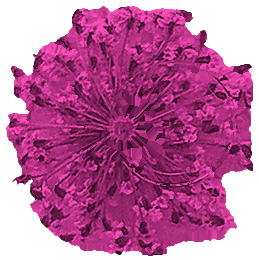
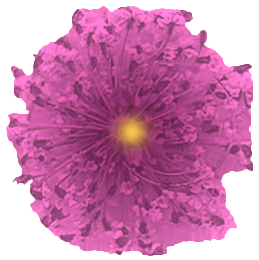
Add = place on the piece and drag (no where/shuffle chips), single drawn shells, better flowers, ten inspiration looks with matching combos, tighter ink drops
Claude-Session: https://claude.ai/code/session_01DjQemfhErfNEU4ZzJdMN5C

diff --git a/app.js b/app.js
@@ -669,8 +669,8 @@ function styleLayer(d, id, R, T, B) {
       // one drop: strongest in the middle, thinning out towards the edge
       let defs = "";
       d.inkDrops.forEach(([ci, x, y, rs], i) => {
-        const col = c[ci] || c[0], r = rs * (wide ? 3.4 : 2.1);
-        defs += `<radialGradient id="${id}-d${i}"><stop offset="0" stop-color="${col}" stop-opacity="0.96"/><stop offset="0.28" stop-color="${col}" stop-opacity="${wide ? 0.78 : 0.9}"/><stop offset="0.65" stop-color="${col}" stop-opacity="${wide ? 0.34 : 0.22}"/><stop offset="1" stop-color="${col}" stop-opacity="0"/></radialGradient>`;
+        const col = c[ci] || c[0], r = rs * (wide ? 2.5 : 1.6);
+        defs += `<radialGradient id="${id}-d${i}"><stop offset="0" stop-color="${col}" stop-opacity="0.96"/><stop offset="0.22" stop-color="${col}" stop-opacity="0.95"/><stop offset="0.4" stop-color="${col}" stop-opacity="${wide ? 0.7 : 0.85}"/><stop offset="0.65" stop-color="${col}" stop-opacity="${wide ? 0.34 : 0.22}"/><stop offset="1" stop-color="${col}" stop-opacity="0"/></radialGradient>`;
         over += `<ellipse cx="${x}" cy="${y}" rx="${r.toFixed(0)}" ry="${(r * (0.85 + (i % 3) * 0.08)).toFixed(0)}" fill="url(#${id}-d${i})" transform="rotate(${(i * 47) % 180} ${x} ${y})"/>`;
       });
       s += `<defs>${defs}</defs><g filter="url(#${id}-ink)">${over}</g>`;
@@ -1141,10 +1141,15 @@ function sprinkle(d, gid, n, seed) {
   }
 }
 const LOOKS = [
-  { id: "ocean", name: "Ocean shore", apply(d) { d.style = "ocean"; d.ocean = Object.assign({}, d.ocean, { sand: "middle", size: "medium", dir: "flat" }); d.addins = { "sea-starfish": { amount: "few", place: "anna", color: "#D4AF37" }, "sea-shell-mix2": { amount: "few", place: "anna", color: "#D4AF37" } }; d.crush = []; } },
+  { id: "ocean", name: "Ocean shore", apply(d) { d.style = "ocean"; d.ocean = Object.assign({}, d.ocean, { sand: "middle", size: "medium", dir: "flat" }); d.addins = { "sea-starfish": { amount: "few", place: "anna", color: "#D4AF37" }, "sea-shell-scallop": { amount: "few", place: "anna", color: "#D4AF37" } }; d.crush = []; } },
   { id: "rosegold", name: "Rose gold glitter", apply(d) { d.style = "gradient"; d.picked = ["#B8693F", "#C9A99A", "#D9959C"]; d.gradient = { direction: "diagonal", glitter: "none" }; d.addins = {}; d.crush = []; sprinkle(d, "rosecopper", 130, "rg"); sprinkle(d, "champagne", 90, "rg2"); } },
   { id: "blossom", name: "Pink blossom", apply(d) { d.style = "clear"; d.deco = "natural"; d.addins = { "flower-pink": { amount: "few", place: "anna", color: "#D4AF37" }, "flower-cream": { amount: "few", place: "anna", color: "#D4AF37" }, "dried-pink": { amount: "few", place: "anna", color: "#D4AF37" } }; d.crush = []; sprinkle(d, "palerose", 70, "bl"); } },
   { id: "midnight", name: "Midnight ink", apply(d) { d.style = "ink"; d.picked = ["#4A5090", "#6A4B94", "#14151A"]; d.ink = Object.assign({}, d.ink, { flow: "spread", legacy: false, shimmer: "gold" }); const [T, B] = bounds(d.shape), h = B - T; d.inkDrops = [[0, 130, Math.round(T + h * 0.3), 20], [1, 170, Math.round(T + h * 0.55), 22], [2, 140, Math.round(T + h * 0.78), 18]]; d.addins = {}; d.crush = []; sprinkle(d, "gold", 60, "mi"); } },
+  { id: "lavender", name: "Lavender dream", apply(d) { d.style = "clear"; d.deco = "natural"; d.addins = { "flower-purple": { amount: "few", place: "anna", color: "#D4AF37" }, "flower-mauve": { amount: "few", place: "anna", color: "#D4AF37" }, "dried-lavender": { amount: "few", place: "anna", color: "#D4AF37" } }; d.crush = []; sprinkle(d, "purple", 60, "lv"); sprinkle(d, "palerose", 40, "lv2"); } },
+  { id: "inkrose", name: "Rose ink", apply(d) { d.style = "ink"; d.deco = "natural"; d.picked = ["#D9959C", "#C97080", "#E6E0D8"]; d.ink = Object.assign({}, d.ink, { flow: "spread", legacy: false, shimmer: "pearl" }); const [T, B] = bounds(d.shape), h = B - T; d.inkDrops = [[0, 140, Math.round(T + h * 0.35), 20], [1, 165, Math.round(T + h * 0.62), 18], [2, 135, Math.round(T + h * 0.8), 16]]; d.addins = { "flower-pink": { amount: "few", place: "anna", color: "#D4AF37" } }; d.crush = []; sprinkle(d, "pink", 40, "ir"); } },
+  { id: "goldenhour", name: "Golden hour", apply(d) { d.style = "gradient"; d.picked = ["#C9A99A", "#C89B2E", "#8A5F3C"]; d.gradient = { direction: "diagonal", glitter: "none" }; d.addins = {}; d.crush = []; sprinkle(d, "gold", 110, "gh"); sprinkle(d, "lightgold", 70, "gh2"); } },
+  { id: "forest", name: "Forest", apply(d) { d.style = "gradient"; d.picked = ["#3A5F55", "#4C8A7C", "#E6E0D8"]; d.gradient = { direction: "center", glitter: "none" }; d.addins = {}; d.crush = []; sprinkle(d, "goldleaf", 60, "fo"); sprinkle(d, "green", 50, "fo2"); } },
+  { id: "seaglass", name: "Sea glass", apply(d) { d.style = "ink"; d.deco = "natural"; d.picked = ["#4F8A9C", "#7F9CC0", "#E6E0D8"]; d.ink = Object.assign({}, d.ink, { flow: "spread", legacy: false, shimmer: "pearl" }); const [T, B] = bounds(d.shape), h = B - T; d.inkDrops = [[0, 140, Math.round(T + h * 0.4), 22], [1, 165, Math.round(T + h * 0.68), 20], [2, 125, Math.round(T + h * 0.58), 14]]; d.addins = { "dried-blue": { amount: "few", place: "anna", color: "#D4AF37" } }; d.crush = []; sprinkle(d, "clear", 80, "sg2"); } },
   { id: "sunset", name: "Sunset gold", apply(d) { d.style = "gradient"; d.picked = ["#D9742E", "#B04855", "#C89B2E"]; d.gradient = { direction: "down", glitter: "none" }; d.addins = {}; d.crush = []; sprinkle(d, "goldleaf", 70, "sg"); } },
 ];
 function lookDesign(look) { const d = copy(design); d.hardware = "none"; d.tassel.type = "none"; look.apply(d); applyPicked(d); return d; }
@@ -1355,13 +1360,7 @@ const STEP_VIEWS = [
       const sel = design.addins[a.id];
       const reason = blockedReason(a.id, design);
       const on = !!sel && !reason;
-      const body = on ? `<div class="addin-body">
-          <div><span class="field-label">${U("where")}</span>${chips(`addins.${a.id}.place`, "place", sel.place)}</div>
-          <div class="chips">
-            <button type="button" class="chip" data-action="shuffle" data-id="${a.id}">${U("shuffle")}</button>
-            ${a.single ? "" : `<button type="button" class="chip" data-action="onemore" data-id="${a.id}">${U("oneMore")}</button>`}
-          </div>
-        </div>` : "";
+      const body = "";
       return `<div class="addin ${on ? "on" : ""} ${reason ? "off" : ""}">
         <button type="button" class="addin-head" data-action="addin" data-id="${a.id}" aria-pressed="${on}" ${reason ? "disabled" : ""}>
           <span class="em" data-drag="${a.id}" title="${esc(U("dropHint"))}" style="background:#E9F1F0 url(${a.img}) center/78% no-repeat"></span>
@@ -1391,7 +1390,7 @@ const STEP_VIEWS = [
     const lettersOpen = ui.open.has("letters"), photoOpen = ui.open.has("photo");
     return `
     <h2>${U("s5h")}</h2>
-    <p class="hint">${U("s5p")} ${design.style === "ocean" ? "" : `<button type="button" class="btn btn-line small" data-action="deco" data-id="">${U("decoChange")}</button>`}</p>
+    <p class="hint">${U("dragPlace")} ${design.style === "ocean" ? "" : `<button type="button" class="btn btn-line small" data-action="deco" data-id="">${U("decoChange")}</button>`}</p>
     ${design.deco === "charms" && design.style !== "ocean" ? `<details class="ins-sec" data-key="letters" ${lettersOpen ? "open" : ""}><summary><span class="ins-title">${U("sLtH")}</span><span class="ins-count">${L.text ? esc(L.text) : ""}</span></summary><div class="ins-body">${lettersBlock}</div></details>` : ""}
     ${sections.join("")}
     ${moldRank(design.shape) === 2 && design.style !== "ocean" ? `<details class="ins-sec" data-key="photo" ${photoOpen ? "open" : ""}><summary><span class="ins-title">${U("photoH")}</span><span class="ins-count">${design.photo.on ? U("added") : ""}</span></summary><div class="ins-body">${photoBlock}</div></details>` : ""}`;
@@ -1757,7 +1756,13 @@ els.panel.addEventListener("click", (e) => {
   } else if (action === "addin") {
     const a = CONFIG.addins.find((x) => x.id === el.dataset.id);
     if (design.addins[a.id]) delete design.addins[a.id];
-    else design.addins[a.id] = { amount: a.img ? "few" : "some", place: "anna", color: a.color };
+    else {
+      const [T, B] = bounds(design.shape), cy = (T + B) / 2;
+      let spot = [150, cy];
+      outer: for (let r = 0; r < 140; r += 6) for (let k = 0; k < 12; k++) { const an = (k / 12) * Math.PI * 2, x = 150 + Math.cos(an) * r, y = cy + Math.sin(an) * r * 1.4; if (insideShape(design.shape, x, y, 8)) { spot = [Math.round(x), Math.round(y)]; break outer; } }
+      const n = Object.keys(design.addins).length; spot = [spot[0] + (n % 3 - 1) * 14, spot[1] + (n % 2 ? 16 : -10)];
+      design.addins[a.id] = { amount: "few", place: "anna", color: a.color, items: [[spot[0], spot[1], 0]], moved: true };
+    }
     changed();
   } else if (action === "shuffle") {
     const a = CONFIG.addins.find((x) => x.id === el.dataset.id);

diff --git a/i18n.js b/i18n.js
@@ -11,7 +11,8 @@ const I18N = {
   en: {
     steps: ["Ready-made", "Mold", "Letter", "Style", "Colours", "Details", "Glitter", "Inside", "Chain", "Tassel", "Review"],
     ui: {
-      inspoH: "Need inspiration?", inspoP: "Five finished looks on your mold. Tap one to start from it, then change anything.", look_ocean: "Ocean shore", look_rosegold: "Rose gold glitter", look_blossom: "Pink blossom", look_midnight: "Midnight ink", look_sunset: "Sunset gold",
+      dragPlace: "Tap Add, then drag the piece to where you want it. If it leaves the shape it is removed.", look_lavender: "Lavender dream", look_inkrose: "Rose ink", look_goldenhour: "Golden hour", look_forest: "Forest", look_seaglass: "Sea glass",
+      inspoH: "Need inspiration?", inspoP: "Ten finished looks on your mold. Tap one to start from it, then change anything.", look_ocean: "Ocean shore", look_rosegold: "Rose gold glitter", look_blossom: "Pink blossom", look_midnight: "Midnight ink", look_sunset: "Sunset gold",
       mySaves: "My saves", myDrafts: "My drafts", myStyles: "My styles", openCode: "Open a design", openCodeNote: "Paste a share link or design code someone sent you.", codePh: "Paste a link or code", codeBad: "That link or code could not be opened.", open: "Open", noDrafts: "No drafts yet. Tap Save as draft while you design.", noStyles: "No styles yet. Tap Save style to keep the look of this piece.", styleN: "Style {n}", styleSaved: "Saved as Style {n}. Apply it to any other mold.", styleApplied: "{name} applied.", applyStyle: "Apply", saveStyleBtn: "Save style", openSaves: "Open", codeShare: "Share this link or code. Anyone can paste it into My saves to open your exact design.", copyCode: "Copy link",
       bsShape: "Shape", bsStyle: "Style",
       refSub: "Finished pieces from Anna's studio. Tap a shape above to start your own.",
@@ -163,7 +164,8 @@ const I18N = {
   th: {
     steps: ["แบบสำเร็จรูป", "แม่พิมพ์", "ตัวอักษร", "สไตล์", "สี", "รายละเอียด", "กากเพชร", "ของข้างใน", "โซ่", "พู่", "ตรวจสอบ"],
     ui: {
-      inspoH: "อยากได้แรงบันดาลใจไหม?", inspoP: "ห้าลุคสำเร็จบนแม่พิมพ์ของคุณ แตะเพื่อเริ่มจากลุคนั้น แล้วแก้ได้ทุกอย่าง", look_ocean: "ชายฝั่งทะเล", look_rosegold: "กากเพชรโรสโกลด์", look_blossom: "ดอกไม้สีชมพู", look_midnight: "หมึกเที่ยงคืน", look_sunset: "พระอาทิตย์ตกสีทอง",
+      dragPlace: "แตะเพิ่ม แล้วลากชิ้นไปวางตำแหน่งที่ต้องการ ถ้าลากออกนอกรูปทรง ชิ้นนั้นจะถูกลบ", look_lavender: "ลาเวนเดอร์ดรีม", look_inkrose: "หมึกชมพูกุหลาบ", look_goldenhour: "โกลเดนอาวร์", look_forest: "ป่า", look_seaglass: "แก้วทะเล",
+      inspoH: "อยากได้แรงบันดาลใจไหม?", inspoP: "สิบลุคสำเร็จบนแม่พิมพ์ของคุณ แตะเพื่อเริ่มจากลุคนั้น แล้วแก้ได้ทุกอย่าง", look_ocean: "ชายฝั่งทะเล", look_rosegold: "กากเพชรโรสโกลด์", look_blossom: "ดอกไม้สีชมพู", look_midnight: "หมึกเที่ยงคืน", look_sunset: "พระอาทิตย์ตกสีทอง",
       mySaves: "ที่บันทึกไว้", myDrafts: "แบบร่างของฉัน", myStyles: "สไตล์ของฉัน", openCode: "เปิดดีไซน์", openCodeNote: "วางลิงก์แชร์หรือรหัสดีไซน์ที่มีคนส่งมา", codePh: "วางลิงก์หรือรหัส", codeBad: "เปิดลิงก์หรือรหัสนี้ไม่ได้", open: "เปิด", noDrafts: "ยังไม่มีแบบร่าง กดบันทึกแบบร่างขณะออกแบบ", noStyles: "ยังไม่มีสไตล์ กดบันทึกสไตล์เพื่อเก็บลุคของชิ้นนี้", styleN: "สไตล์ {n}", styleSaved: "บันทึกเป็นสไตล์ {n} แล้ว ใช้กับแม่พิมพ์อื่นได้", styleApplied: "ใช้ {name} แล้ว", applyStyle: "ใช้", saveStyleBtn: "บันทึกสไตล์", openSaves: "เปิด", codeShare: "แชร์ลิงก์หรือรหัสนี้ ใครก็วางใน ที่บันทึกไว้ เพื่อเปิดดีไซน์ของคุณได้", copyCode: "คัดลอกลิงก์",
       bsShape: "รูปทรง", bsStyle: "สไตล์",
       refSub: "ผลงานจริงจากสตูดิโอของแอนนา เลือกรูปทรงด้านบนเพื่อเริ่มของคุณเอง",
@@ -296,7 +298,8 @@ const I18N = {
   ru: {
     steps: ["Готовые", "Форма", "Буква", "Стиль", "Цвета", "Настройки", "Блёстки", "Внутри", "Цепочка", "Кисточка", "Итог"],
     ui: {
-      inspoH: "Нужно вдохновение?", inspoP: "Пять готовых образов на вашей форме. Нажмите, чтобы начать с него, и меняйте что угодно.", look_ocean: "Морской берег", look_rosegold: "Блёстки розовое золото", look_blossom: "Розовое цветение", look_midnight: "Полночные чернила", look_sunset: "Золотой закат",
+      dragPlace: "Нажмите «Добавить», затем перетащите деталь, куда хотите. Если она выйдет за форму, она удалится.", look_lavender: "Лавандовая мечта", look_inkrose: "Розовые чернила", look_goldenhour: "Золотой час", look_forest: "Лес", look_seaglass: "Морское стекло",
+      inspoH: "Нужно вдохновение?", inspoP: "Десять готовых образов на вашей форме. Нажмите, чтобы начать с него, и меняйте что угодно.", look_ocean: "Морской берег", look_rosegold: "Блёстки розовое золото", look_blossom: "Розовое цветение", look_midnight: "Полночные чернила", look_sunset: "Золотой закат",
       mySaves: "Мои сохранения", myDrafts: "Мои черновики", myStyles: "Мои стили", openCode: "Открыть дизайн", openCodeNote: "Вставьте ссылку или код дизайна, который вам прислали.", codePh: "Вставьте ссылку или код", codeBad: "Не удалось открыть эту ссылку или код.", open: "Открыть", noDrafts: "Пока нет черновиков. Нажмите «Сохранить черновик» во время создания.", noStyles: "Пока нет стилей. Нажмите «Сохранить стиль», чтобы запомнить вид изделия.", styleN: "Стиль {n}", styleSaved: "Сохранено как Стиль {n}. Примените к любой другой форме.", styleApplied: "{name} применён.", applyStyle: "Применить", saveStyleBtn: "Сохранить стиль", openSaves: "Открыть", codeShare: "Поделитесь этой ссылкой или кодом. Любой может вставить его в «Мои сохранения» и открыть ваш дизайн.", copyCode: "Скопировать ссылку",
       bsShape: "Форма", bsStyle: "Стиль",
       refSub: "Готовые работы из студии Анны. Выберите форму выше, чтобы начать своё.",

diff --git a/canvas.html b/canvas.html
@@ -7,7 +7,7 @@
   <link rel="preconnect" href="https://fonts.googleapis.com">
   <link rel="preconnect" href="https://fonts.gstatic.com" crossorigin>
   <link href="https://fonts.googleapis.com/css2?family=Cormorant+Garamond:wght@500;600&family=Jost:wght@400;500;700&family=Archivo+Black&family=Bagel+Fat+One&family=Noto+Sans+Thai:wght@400;500&family=Noto+Serif+Thai:wght@500;600&display=swap" rel="stylesheet">
-  <link rel="stylesheet" href="style.css?v=74">
+  <link rel="stylesheet" href="style.css?v=75">
   <title>Design a canvas — Resincraftcode</title>
   <meta name="description" content="Order a handmade resin canvas in any size. Beach style, or add your own photo and choose the shape.">
 </head>
@@ -17,11 +17,11 @@
   <footer class="site-footer" id="site-footer"></footer>
   <div class="toast" id="toast" role="status" aria-live="polite"><span id="toast-text"></span></div>
 
-  <script src="config.js?v=74"></script>
-  <script src="i18n.js?v=74"></script>
-  <script src="i18n-site.js?v=74"></script>
-  <script src="i18n-extra.js?v=74"></script>
-  <script src="core.js?v=74"></script>
-  <script src="canvas.js?v=74"></script>
+  <script src="config.js?v=75"></script>
+  <script src="i18n.js?v=75"></script>
+  <script src="i18n-site.js?v=75"></script>
+  <script src="i18n-extra.js?v=75"></script>
+  <script src="core.js?v=75"></script>
+  <script src="canvas.js?v=75"></script>
 </body>
 </html>

diff --git a/idea.html b/idea.html
@@ -7,7 +7,7 @@
   <link rel="preconnect" href="https://fonts.googleapis.com">
   <link rel="preconnect" href="https://fonts.gstatic.com" crossorigin>
   <link href="https://fonts.googleapis.com/css2?family=Cormorant+Garamond:wght@500;600&family=Jost:wght@400;500;700&family=Archivo+Black&family=Bagel+Fat+One&family=Noto+Sans+Thai:wght@400;500&family=Noto+Serif+Thai:wght@500;600&display=swap" rel="stylesheet">
-  <link rel="stylesheet" href="style.css?v=74">
+  <link rel="stylesheet" href="style.css?v=75">
   <title>Send your idea — Resincraftcode</title>
   <meta name="description" content="Send a photo or sketch and Resincraftcode will make it into a handmade resin keychain.">
 </head>
@@ -17,11 +17,11 @@
   <footer class="site-footer" id="site-footer"></footer>
   <div class="toast" id="toast" role="status" aria-live="polite"><span id="toast-text"></span></div>
 
-  <script src="config.js?v=74"></script>
-  <script src="i18n.js?v=74"></script>
-  <script src="i18n-site.js?v=74"></script>
-  <script src="i18n-extra.js?v=74"></script>
-  <script src="core.js?v=74"></script>
-  <script src="site.js?v=74"></script>
+  <script src="config.js?v=75"></script>
+  <script src="i18n.js?v=75"></script>
+  <script src="i18n-site.js?v=75"></script>
+  <script src="i18n-extra.js?v=75"></script>
+  <script src="core.js?v=75"></script>
+  <script src="site.js?v=75"></script>
 </body>
 </html>

diff --git a/index.html b/index.html
@@ -7,7 +7,7 @@
   <link rel="preconnect" href="https://fonts.googleapis.com">
   <link rel="preconnect" href="https://fonts.gstatic.com" crossorigin>
   <link href="https://fonts.googleapis.com/css2?family=Cormorant+Garamond:wght@500;600&family=Jost:wght@400;500;700&family=Archivo+Black&family=Bagel+Fat+One&family=Noto+Sans+Thai:wght@400;500&family=Noto+Serif+Thai:wght@500;600&display=swap" rel="stylesheet">
-  <link rel="stylesheet" href="style.css?v=74">
+  <link rel="stylesheet" href="style.css?v=75">
   <title>Resincraftcode — handmade resin keychains, Phuket</title>
   <meta name="description" content="Handmade resin letter keychains from Phuket. Choose a ready-made design, design your own, or send us your idea.">
 </head>
@@ -16,11 +16,11 @@
   <main id="home"></main>
   <footer class="site-footer" id="site-footer"></footer>
 
-  <script src="config.js?v=74"></script>
-  <script src="i18n.js?v=74"></script>
-  <script src="i18n-site.js?v=74"></script>
-  <script src="i18n-extra.js?v=74"></script>
-  <script src="core.js?v=74"></script>
-  <script src="site.js?v=74"></script>
+  <script src="config.js?v=75"></script>
+  <script src="i18n.js?v=75"></script>
+  <script src="i18n-site.js?v=75"></script>
+  <script src="i18n-extra.js?v=75"></script>
+  <script src="core.js?v=75"></script>
+  <script src="site.js?v=75"></script>
 </body>
 </html>

diff --git a/design.html b/design.html
@@ -7,7 +7,7 @@
   <link rel="preconnect" href="https://fonts.googleapis.com">
   <link rel="preconnect" href="https://fonts.gstatic.com" crossorigin>
   <link href="https://fonts.googleapis.com/css2?family=Cormorant+Garamond:wght@500;600&family=Jost:wght@400;500;700&family=Archivo+Black&family=Bagel+Fat+One&family=Noto+Sans+Thai:wght@400;500&family=Noto+Serif+Thai:wght@500;600&display=swap" rel="stylesheet">
-  <link rel="stylesheet" href="style.css?v=74">
+  <link rel="stylesheet" href="style.css?v=75">
   <title>Design your keychain — Resincraftcode</title>
   <meta name="description" content="Design your own handmade resin keychain, then send it to Resincraftcode by DM.">
 </head>
@@ -59,11 +59,11 @@
     <button type="button" id="toast-action" hidden></button>
   </div>
 
-  <script src="config.js?v=74"></script>
-  <script src="i18n.js?v=74"></script>
-  <script src="i18n-site.js?v=74"></script>
-  <script src="i18n-extra.js?v=74"></script>
-  <script src="core.js?v=74"></script>
-  <script src="app.js?v=74"></script>
+  <script src="config.js?v=75"></script>
+  <script src="i18n.js?v=75"></script>
+  <script src="i18n-site.js?v=75"></script>
+  <script src="i18n-extra.js?v=75"></script>
+  <script src="core.js?v=75"></script>
+  <script src="app.js?v=75"></script>
 </body>
 </html>

diff --git a/i18n-extra.js b/i18n-extra.js
@@ -1,6 +1,10 @@
 /* Extra translations: every English text on the pages that has no entry in i18n.js. Applied automatically by core.js. */
 const PHRASES = {
 "th": {
+"Pink scallop shell": "หอยเชลล์สีชมพู",
+"Turret shell": "หอยเกลียวแหลม",
+"Cone shell": "หอยโข่งกรวย",
+"Snail shell": "หอยทาก",
 "Cart": "ตะกร้า",
 "Your cart": "ตะกร้าของคุณ",
 "Your cart is empty. Design a piece and tap Add to cart.": "ตะกร้าว่าง ออกแบบชิ้นงานแล้วกดเพิ่มลงตะกร้า",
@@ -398,6 +402,10 @@ const PHRASES = {
 "Bun pin": "ปิ่นปักผม"
 },
 "ru": {
+"Pink scallop shell": "Розовый гребешок",
+"Turret shell": "Башенная ракушка",
+"Cone shell": "Ракушка-конус",
+"Snail shell": "Ракушка-улитка",
 "Cart": "Корзина",
 "Your cart": "Ваша корзина",
 "Your cart is empty. Design a piece and tap Add to cart.": "Корзина пуста. Создайте изделие и нажмите «В корзину».",

diff --git a/config.js b/config.js
@@ -402,12 +402,11 @@ CONFIG.smallItems.forEach((s) => {
 // Real sea items (starfish and shells from Anna's photos). Recommended for beach and sea pieces.
 CONFIG.seaItems = [
   { id: "starfish", name: "Starfish", size: 42, single: true },
-  { id: "shell-mix1", name: "Shell mix 1", size: 44 },
-  { id: "shell-mix2", name: "Shell mix 2", size: 44 },
-  { id: "shell-mix3", name: "Shell mix 3", size: 44 },
-  { id: "shell-mix4", name: "Shell mix 4", size: 44 },
-  { id: "shell-scallop", name: "Scallop shell", size: 36 },
-  { id: "shell-spiral", name: "Spiral shell", size: 30 },
+  { id: "shell-scallop", name: "Scallop shell", size: 38 },
+  { id: "shell-pink", name: "Pink scallop shell", size: 38 },
+  { id: "shell-spiral", name: "Turret shell", size: 34 },
+  { id: "shell-cone", name: "Cone shell", size: 34 },
+  { id: "shell-snail", name: "Snail shell", size: 34 },
 ];
 CONFIG.seaItems.forEach((s) => {
   s.img = `images/sea/${s.id}.png`;
